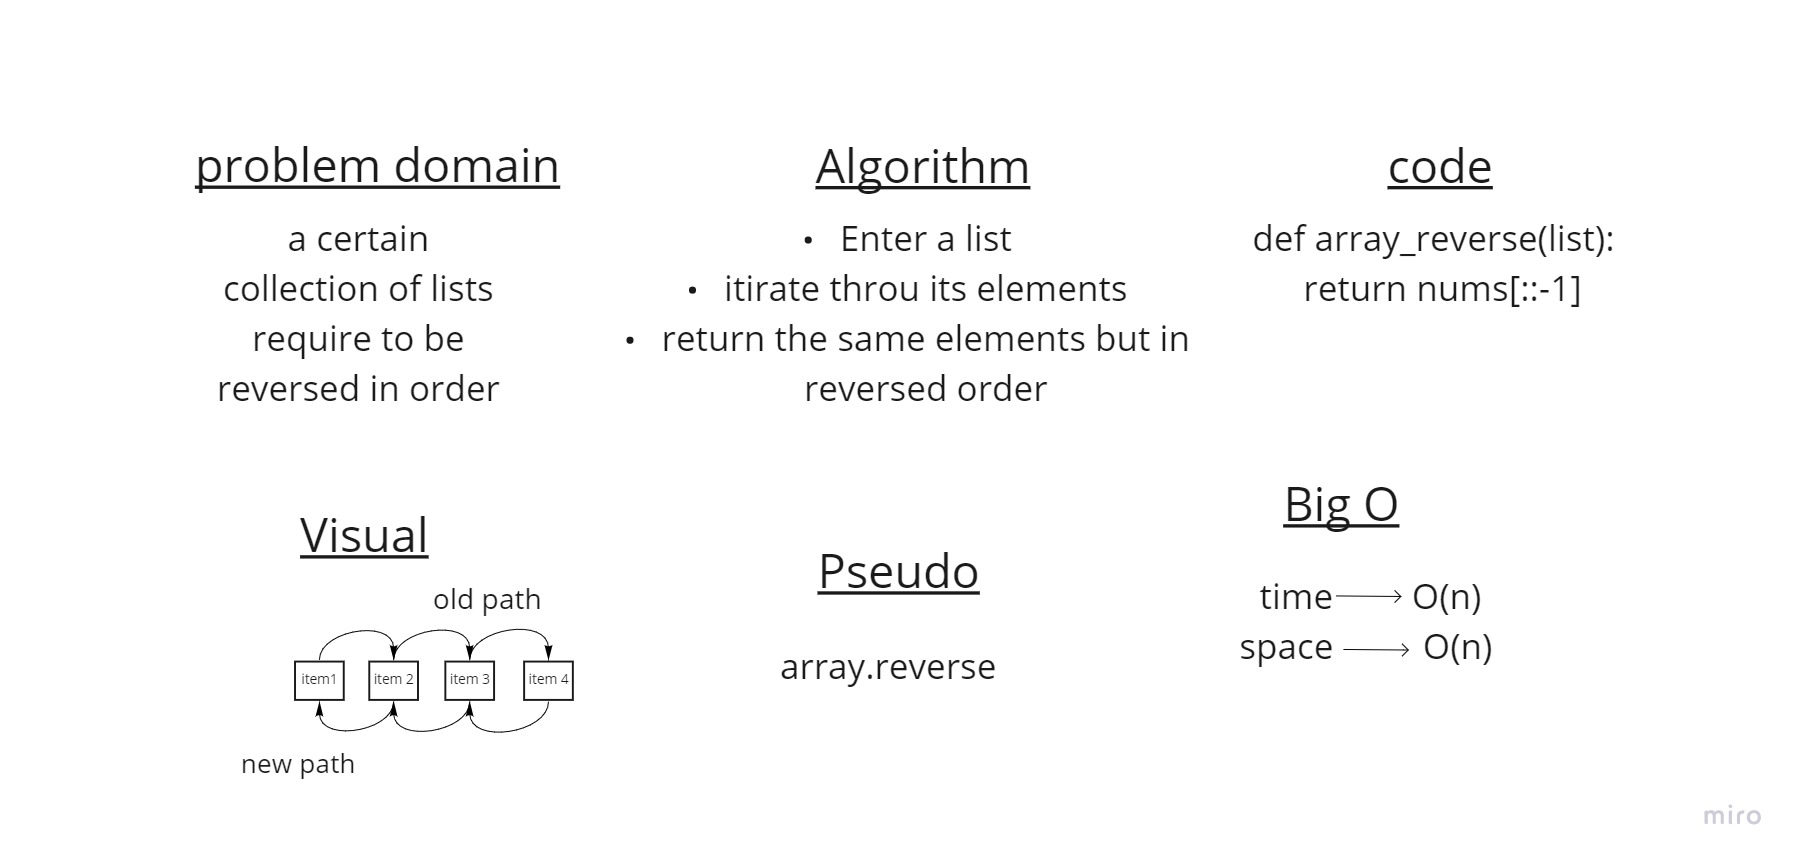
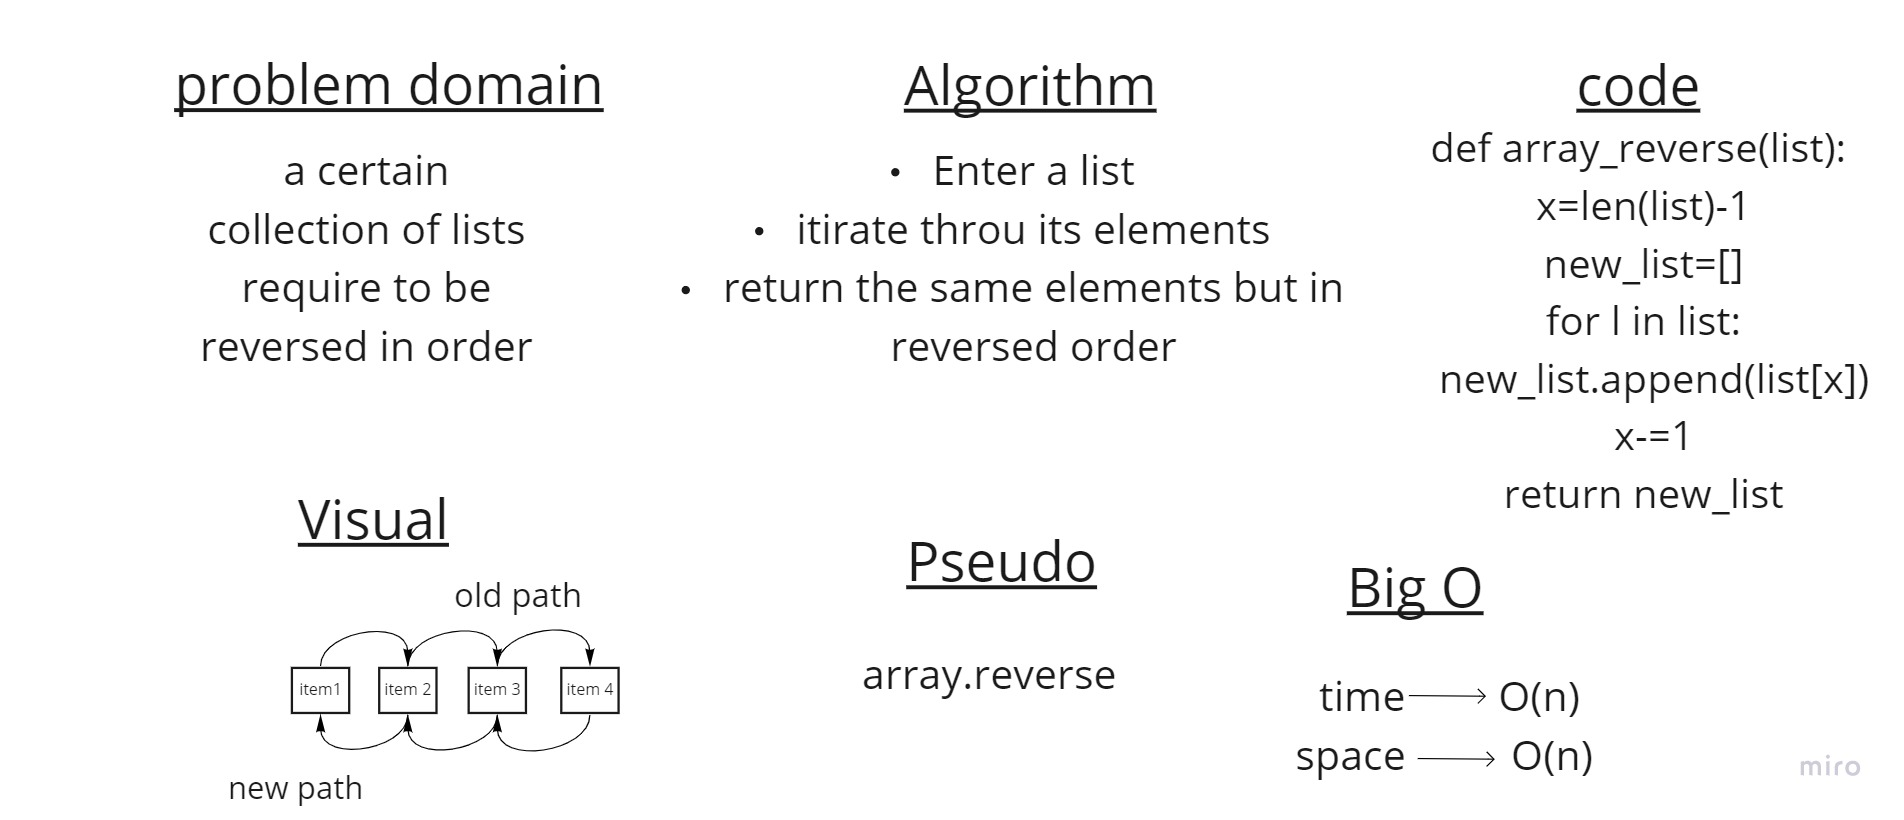
updated challange 1

diff --git a/python/array-reverse.py b/python/array-reverse.py
@@ -2,7 +2,11 @@ nums=[1,2,3,4,5,6,7,8,9]
 
 
 def array_reverse(list):
-  return nums[::-1]
-
+ x=len(list)-1
+ new_list=[]
+ for l in list:
+   new_list.append(list[x])
+   x-=1
+ return new_list
 
 print(array_reverse(nums))
